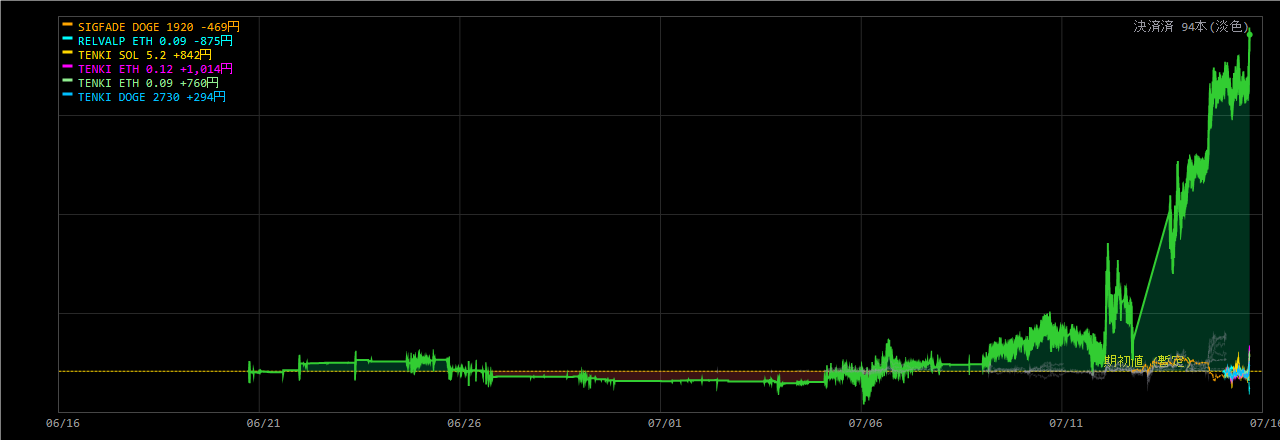
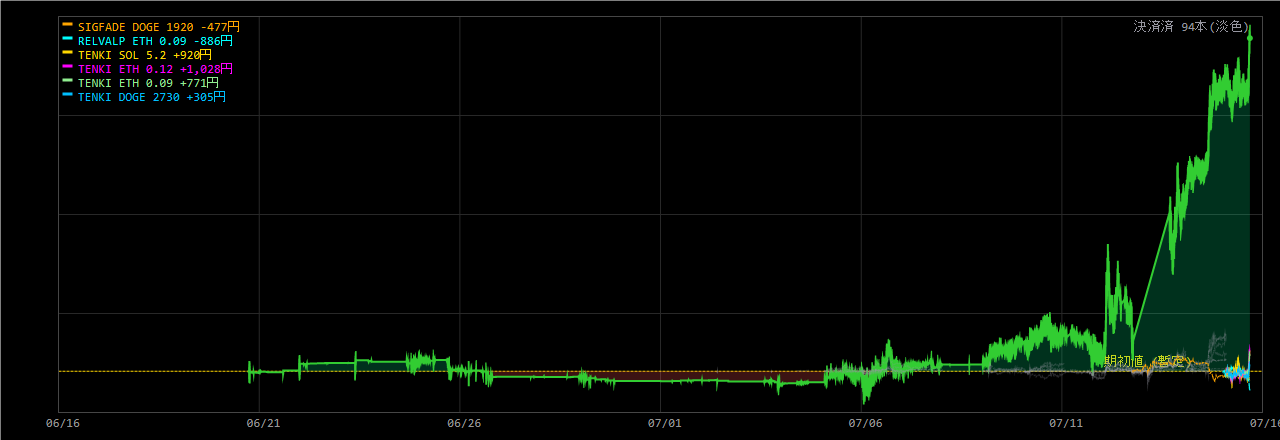
Coin100S 運用状況更新 07-15 22:29

diff --git a/coin100s-795hc4jfv8/index.html b/coin100s-795hc4jfv8/index.html
@@ -14,16 +14,16 @@ a{color:#60a5fa;text-decoration:none} a:hover{text-decoration:underline}
 .meta{color:#94a3b8;font-size:13px}</style>
 <script>setTimeout(function(){location.replace(location.pathname+"?t="+Date.now());},300000);</script></head><body>
 <h1>Coin100S ダッシュボード</h1>
-<p class="meta">スナップショット: 2026-07-15 22:22:53(自動リロード・最新化)</p>
+<p class="meta">スナップショット: 2026-07-15 22:28:53(自動リロード・最新化)</p>
 <div class="cards">
 <div class="card">建玉数<div class="v">6</div></div>
 <div class="card">本日損益<div class="v pos">+7,617円</div></div>
-<div class="card">評価損益<div class="v pos">+1,829円</div></div>
+<div class="card">評価損益<div class="v pos">+1,490円</div></div>
 </div>
 <h2>現在の建玉</h2>
-<table><tr><th>銘柄</th><th>側</th><th>数量</th><th>建値</th><th>含損益</th><th>レッグ</th></tr><tr><td>DOGE_JPY</td><td>BUY</td><td>2730</td><td>@12</td><td>+368円</td><td>TENKI5D_REV_DOGE</td></tr><tr><td>DOGE_JPY</td><td>SELL</td><td>1920</td><td>@12</td><td>-521円</td><td>SIGFADE_DOGE</td></tr><tr><td>ETH_JPY</td><td>BUY</td><td>0.09</td><td>@305,729</td><td>+812円</td><td>TENKI5D_REV_ETH</td></tr><tr><td>ETH_JPY</td><td>BUY</td><td>0.12</td><td>@305,723</td><td>+1,083円</td><td>TENKI5D_REV_ETH</td></tr><tr><td>ETH_JPY</td><td>SELL</td><td>0.09</td><td>@304,456</td><td>-927円</td><td>RELVALP_SELL</td></tr><tr><td>SOL_JPY</td><td>BUY</td><td>5.2</td><td>@12,601</td><td>+1,014円</td><td>TENKI5D_REV_SOL</td></tr></table>
+<table><tr><th>銘柄</th><th>側</th><th>数量</th><th>建値</th><th>含損益</th><th>レッグ</th></tr><tr><td>DOGE_JPY</td><td>BUY</td><td>2730</td><td>@12</td><td>+251円</td><td>TENKI5D_REV_DOGE</td></tr><tr><td>DOGE_JPY</td><td>SELL</td><td>1920</td><td>@12</td><td>-438円</td><td>SIGFADE_DOGE</td></tr><tr><td>ETH_JPY</td><td>BUY</td><td>0.09</td><td>@305,729</td><td>+739円</td><td>TENKI5D_REV_ETH</td></tr><tr><td>ETH_JPY</td><td>BUY</td><td>0.12</td><td>@305,723</td><td>+987円</td><td>TENKI5D_REV_ETH</td></tr><tr><td>ETH_JPY</td><td>SELL</td><td>0.09</td><td>@304,456</td><td>-855円</td><td>RELVALP_SELL</td></tr><tr><td>SOL_JPY</td><td>BUY</td><td>5.2</td><td>@12,601</td><td>+806円</td><td>TENKI5D_REV_SOL</td></tr></table>
 <p><a href="status.html"><b>▶ 運用状況の詳細(チャート・本日の取引・レジーム)</b></a></p>
 <h2>日報一覧</h2>
 <table><tr><th>取引日</th><th>実現損益</th><th>総括</th></tr><tr><td><a href='reports/20260714_Coin100S日報.html'>2026-07-14</a></td><td class="pos">+0円</td><td class='meta'>実取引: 新規6件/決済18件、実現損益 +0円。シグナル却下5件（最多: BW10M3_5M／トレンド方向ゲート(N分傾き上と不一致=逆張り方向のfade禁止)）。⚠警告/エラー 9件（要確認）。</td></tr><tr><td><a href='reports/20260713_Coin100S日報.html'>2026-07-13</a></td><td class="pos">+0円</td><td class='meta'>実取引: 新規5件/決済8件、実現損益 +0円。シグナル却下1件（最多: BW10M3_5M／トレンド方向ゲート(N分傾き上と不一致=逆張り方向のfade禁止)）。警告/孤児/エラーなし＝健全。</td></tr><tr><td><a href='reports/20260712_Coin100S日報.html'>2026-07-12</a></td><td class="pos">+0円</td><td class='meta'>実取引: 新規14件/決済6件、実現損益 +0円。シグナル却下5件（最多: BW10M3_5M／トレンド方向ゲート(N分傾き下と不一致=逆張り方向のfade禁止)）。⚠警告/エラー 2件（要確認）。</td></tr><tr><td><a href='reports/20260711_Coin100S日報.html'>2026-07-11</a></td><td class="pos">+0円</td><td class='meta'>実取引: 新規7件/決済6件、実現損益 +0円。⚠警告/エラー 52件（要確認）。</td></tr><tr><td><a href='reports/20260710_Coin100S日報.html'>2026-07-10</a></td><td class="pos">+0円</td><td class='meta'>実取引: 新規7件/決済6件、実現損益 +0円。シグナル却下6件（最多: BW10M3_5M／トレンド方向ゲート(N分傾き上と不一致=逆張り方向のfade禁止)）。警告/孤児/エラーなし＝健全。</td></tr><tr><td><a href='reports/20260709_Coin100S日報.html'>2026-07-09</a></td><td class="pos">+0円</td><td class='meta'>実取引: 新規8件/決済3件、実現損益 +0円。シグナル却下5件（最多: SD120M_5M／トレンド方向ゲート(N分傾き上と不一致=逆張り方向のfade禁止)）。警告/孤児/エラーなし＝健全。</td></tr><tr><td><a href='reports/20260708_Coin100S日報.html'>2026-07-08</a></td><td class="pos">+0円</td><td class='meta'>実取引: 新規2件/決済4件、実現損益 +0円。シグナル却下4件（最多: SD120M_5M／トレンド方向ゲート(N分傾き下と不一致=逆張り方向のfade禁止)）。警告/孤児/エラーなし＝健全。</td></tr><tr><td><a href='reports/20260707_Coin100S日報.html'>2026-07-07</a></td><td class="pos">+0円</td><td class='meta'>実取引: 新規8件/決済6件、実現損益 +0円。シグナル却下4件（最多: SD120M_5M／トレンド方向ゲート(N分傾き上と不一致=逆張り方向のfade禁止)）。⚠警告/エラー 258件（要確認）。</td></tr><tr><td><a href='reports/20260706_Coin100S日報.html'>2026-07-06</a></td><td class="pos">+0円</td><td class='meta'>実取引: 新規9件/決済6件、実現損益 +0円。シグナル却下9件（最多: SD120M_5M／トレンド方向ゲート(N分傾き上と不一致=逆張り方向のfade禁止)）。⚠警告/エラー 150件（要確認）。</td></tr><tr><td><a href='reports/20260705_Coin100S日報.html'>2026-07-05</a></td><td class="pos">+0円</td><td class='meta'>実取引: 新規8件/決済3件、実現損益 +0円。⚠警告/エラー 2件（要確認）。</td></tr><tr><td><a href='reports/20260704_Coin100S日報.html'>2026-07-04</a></td><td class="pos">+0円</td><td class='meta'>実取引: 新規1件/決済2件、実現損益 +0円。⚠警告/エラー 2件（要確認）。</td></tr><tr><td><a href='reports/20260703_Coin100S日報.html'>2026-07-03</a></td><td class="pos">+0円</td><td class='meta'>実取引: 新規5件/決済4件、実現損益 +0円。⚠警告/エラー 15件（要確認）。</td></tr><tr><td><a href='reports/20260702_Coin100S日報.html'>2026-07-02</a></td><td class="pos">+0円</td><td class='meta'>実取引: 新規7件/決済5件、実現損益 +0円。シグナル却下17件（最多: SD120M_5M／トレンド方向ゲート(N分傾き上と不一致=逆張り方向のfade禁止)）。⚠警告/エラー 26件（要確認）。</td></tr><tr><td><a href='reports/20260701_Coin100S日報.html'>2026-07-01</a></td><td class="pos">+0円</td><td class='meta'>実取引: 新規14件/決済8件、実現損益 +0円。シグナル却下14件（最多: SD120M_5M／ボラ軸ゲート(SDN%&amp;gt;N%=高ボラ/荒れレンジ)）。⚠警告/エラー 2件（要確認）。</td></tr><tr><td><a href='reports/20260630_Coin100S日報.html'>2026-06-30</a></td><td class="pos">+0円</td><td class='meta'>実取引: 新規0件/決済1件、実現損益 +0円。シグナル却下29件（最多: 微5M／当日枠N）。警告/孤児/エラーなし＝健全。</td></tr></table>
-<hr><p class="meta">更新: 2026-07-15 22:23:05 / 自動生成: tools/web_publish.py(§580)</p>
+<hr><p class="meta">更新: 2026-07-15 22:29:05 / 自動生成: tools/web_publish.py(§580)</p>
 </body></html>

diff --git a/coin100s-795hc4jfv8/status.html b/coin100s-795hc4jfv8/status.html
@@ -14,22 +14,22 @@ a{color:#60a5fa;text-decoration:none} a:hover{text-decoration:underline}
 .meta{color:#94a3b8;font-size:13px}</style>
 <script>setTimeout(function(){location.replace(location.pathname+"?t="+Date.now());},300000);</script></head><body>
 <h1>Coin100S 運用状況</h1>
-<p class="meta">スナップショット: 2026-07-15 22:22:53 / ページ生成: 2026-07-15 22:23:05(自動リロード・最新化) / <a href="index.html">目次へ</a></p>
+<p class="meta">スナップショット: 2026-07-15 22:28:53 / ページ生成: 2026-07-15 22:29:05(自動リロード・最新化) / <a href="index.html">目次へ</a></p>
 <div class="cards">
 <div class="card">建玉数<div class="v">6</div></div>
 <div class="card">本日損益<div class="v pos">+7,617円</div></div>
-<div class="card">評価損益<div class="v pos">+1,829円</div></div>
+<div class="card">評価損益<div class="v pos">+1,490円</div></div>
 </div>
 <h2>資産推移(直近30日)</h2>
-<img src="status_equity.png?t=2223" alt="equity">
+<img src="status_equity.png?t=2229" alt="equity">
 <h2>取引チャート(直近24h)</h2>
-<img src="status_chart.png?t=2223" alt="chart">
+<img src="status_chart.png?t=2229" alt="chart">
 <h2>建玉一覧</h2>
-<table><tr><th>銘柄</th><th>側</th><th>数量</th><th>建値</th><th>含損益</th><th>レッグ</th></tr><tr><td>DOGE_JPY</td><td>BUY</td><td>2730</td><td>@12</td><td>+368円</td><td>TENKI5D_REV_DOGE</td></tr><tr><td>DOGE_JPY</td><td>SELL</td><td>1920</td><td>@12</td><td>-521円</td><td>SIGFADE_DOGE</td></tr><tr><td>ETH_JPY</td><td>BUY</td><td>0.09</td><td>@305,729</td><td>+812円</td><td>TENKI5D_REV_ETH</td></tr><tr><td>ETH_JPY</td><td>BUY</td><td>0.12</td><td>@305,723</td><td>+1,083円</td><td>TENKI5D_REV_ETH</td></tr><tr><td>ETH_JPY</td><td>SELL</td><td>0.09</td><td>@304,456</td><td>-927円</td><td>RELVALP_SELL</td></tr><tr><td>SOL_JPY</td><td>BUY</td><td>5.2</td><td>@12,601</td><td>+1,014円</td><td>TENKI5D_REV_SOL</td></tr></table>
+<table><tr><th>銘柄</th><th>側</th><th>数量</th><th>建値</th><th>含損益</th><th>レッグ</th></tr><tr><td>DOGE_JPY</td><td>BUY</td><td>2730</td><td>@12</td><td>+251円</td><td>TENKI5D_REV_DOGE</td></tr><tr><td>DOGE_JPY</td><td>SELL</td><td>1920</td><td>@12</td><td>-438円</td><td>SIGFADE_DOGE</td></tr><tr><td>ETH_JPY</td><td>BUY</td><td>0.09</td><td>@305,729</td><td>+739円</td><td>TENKI5D_REV_ETH</td></tr><tr><td>ETH_JPY</td><td>BUY</td><td>0.12</td><td>@305,723</td><td>+987円</td><td>TENKI5D_REV_ETH</td></tr><tr><td>ETH_JPY</td><td>SELL</td><td>0.09</td><td>@304,456</td><td>-855円</td><td>RELVALP_SELL</td></tr><tr><td>SOL_JPY</td><td>BUY</td><td>5.2</td><td>@12,601</td><td>+806円</td><td>TENKI5D_REV_SOL</td></tr></table>
 <h2>実現決済履歴(直近15件・OrderId単位)</h2>
 <table><tr><th>決済時刻</th><th>レッグ</th><th>銘柄</th><th>実現損益</th></tr><tr><td>07-15 08:18</td><td>TENKI5D_REV_DOGE</td><td>DOGE</td><td class="pos">+858円</td></tr><tr><td>07-15 08:09</td><td>TENKI5D_REV_ETH</td><td>ETH</td><td class="pos">+601円</td></tr><tr><td>07-15 08:09</td><td>TENKI5D_REV_ETH</td><td>ETH</td><td class="pos">+2,402円</td></tr><tr><td>07-15 08:09</td><td>TENKI5D_REV_SOL</td><td>SOL</td><td class="pos">+1,812円</td></tr><tr><td>07-15 08:09</td><td>TENKI5D_REV_BTC</td><td>BTC</td><td class="pos">+1,850円</td></tr><tr><td>07-14 21:47</td><td>SIGFADE_ETH</td><td>ETH</td><td class="neg">-350円</td></tr><tr><td>07-14 21:47</td><td>SIGFADE_ETH</td><td>ETH</td><td class="neg">-141円</td></tr><tr><td>07-14 08:15</td><td>TENKI5D_REV_DOGE</td><td>DOGE</td><td class="pos">+267円</td></tr><tr><td>07-14 08:06</td><td>TENKI5D_REV_SOL</td><td>SOL</td><td class="pos">+1,011円</td></tr><tr><td>07-14 08:06</td><td>TENKI5D_REV_BTC</td><td>BTC</td><td class="pos">+819円</td></tr><tr><td>07-14 08:06</td><td>TENKI5D_REV_ETH</td><td>ETH</td><td class="pos">+826円</td></tr><tr><td>07-14 06:08</td><td>RELVALP_SELL</td><td>ETH</td><td class="pos">+89円</td></tr><tr><td>07-14 06:08</td><td>RELVALP_SELL</td><td>ETH</td><td class="pos">+357円</td></tr><tr><td>07-14 06:08</td><td>RELVALP_SELL</td><td>ETH</td><td class="pos">+314円</td></tr><tr><td>07-14 06:08</td><td>RELVALP_SELL</td><td>ETH</td><td class="pos">+328円</td></tr></table>
 <!-- §799c 「本取引日の実取引(6:00起点)」テーブルは公開ページから削除(ユーザー指示2026-07-15・数量/指値まで晒す情報漏れ)。建玉/実現損益は許可・実発注の生取引明細は非公開 -->
 <h2>現在レジーム(3軸・§570c)</h2>
-<ul><li>アルト対BTC 5日: <b>+0bps</b>(アルト優越=RELVAL逆風)</li><li>BTC ER240m: <b>0.128</b>(閾値0.25→レンジ(fade順風/BWTRD逆風))</li><li>BTC実現ボラ240m: <b>4.75</b> bps/分</li></ul>
+<ul><li>アルト対BTC 5日: <b>+0bps</b>(アルト優越=RELVAL逆風)</li><li>BTC ER240m: <b>0.083</b>(閾値0.25→レンジ(fade順風/BWTRD逆風))</li><li>BTC実現ボラ240m: <b>5.17</b> bps/分</li></ul>
 <hr><p class="meta">自動生成: tools/web_publish.py(§580・読み取り専用)。売買判断はアプリ本体。</p>
 </body></html>
